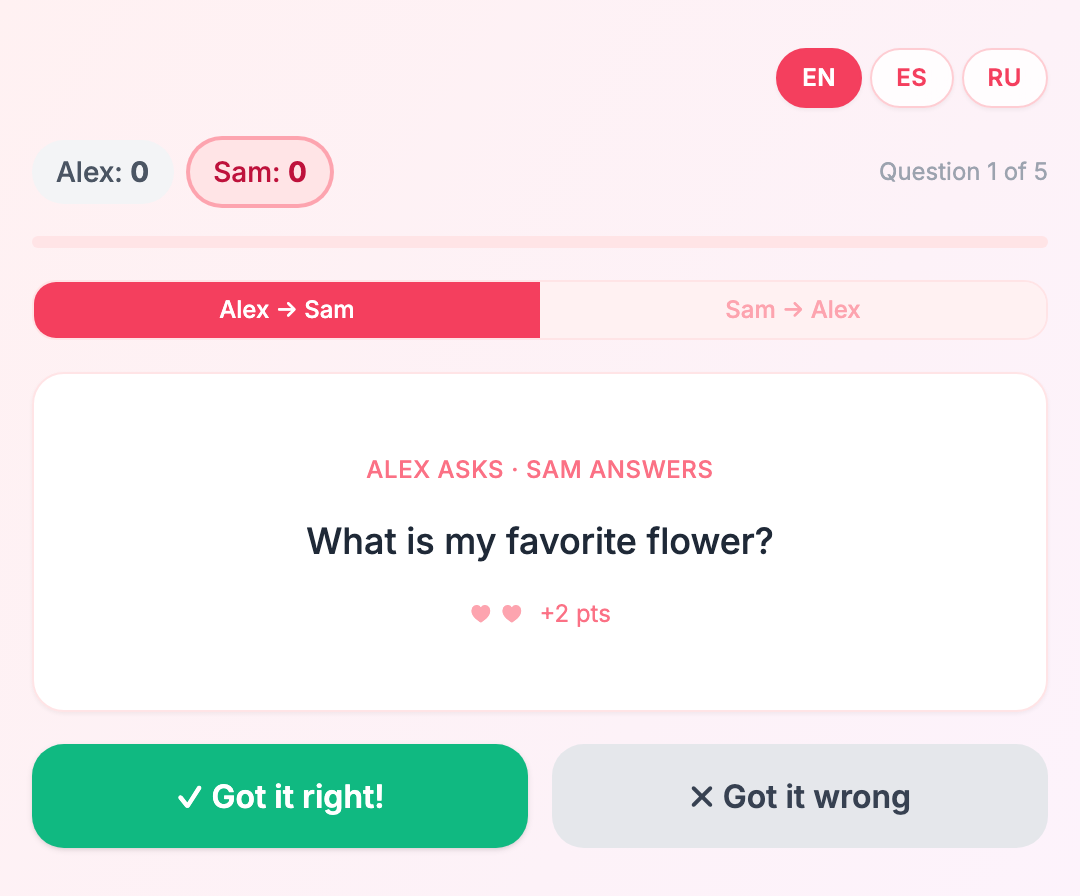
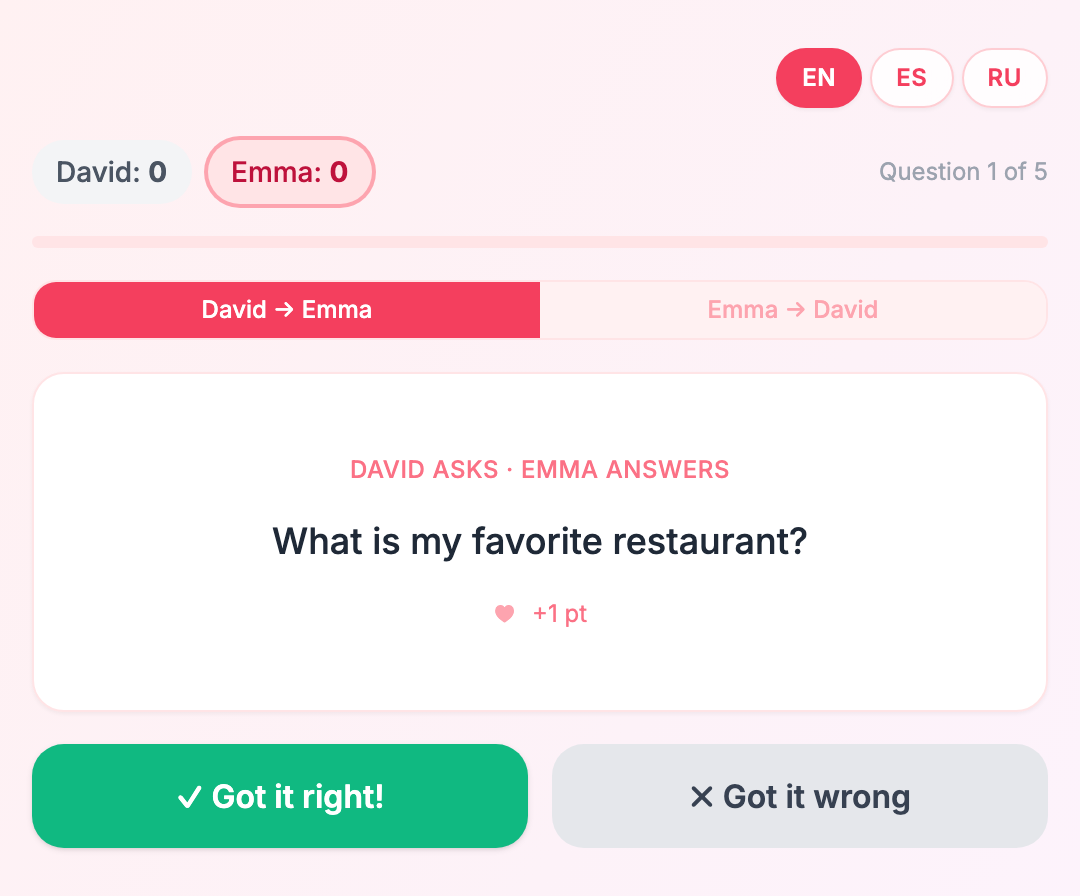
Use clearly-gendered example names (David & Emma) in README and screenshots (#9)

diff --git a/README.md b/README.md
@@ -42,7 +42,7 @@ The result is a product that's fun on the surface and quietly doing something us
 
 - **🎯 Faithful to the method** — 62 real Love Map questions, two-round turn-taking, and Gottman-style weighted scoring (the answerer earns the question's points, the asker earns 1 for a correct guess).
 - **🌍 Trilingual** — full EN / ES / RU support, switchable on the fly. No reload.
-- **👤 Personalized** — enter both names; every prompt reads *"Alex asks · Sam answers"*.
+- **👤 Personalized** — enter both names; every prompt reads *"David asks · Emma answers"*.
 - **⏱️ Pick your depth** — 5 (quick), 10 (date night), 20 (full game), or 30 (deep dive) questions.
 - **↩️ Undo-safe** — a back button rewinds the last answer *and* its score.
 - **🎉 Delightful finish** — animated score bars, a winner (or a tie), and a confetti burst.
@@ -52,8 +52,8 @@ The result is a product that's fun on the surface and quietly doing something us
 
 Each question is played **twice** — once in each direction.
 
-1. **Alex → Sam**: Alex reads the question, Sam answers out loud, Alex marks it right or wrong.
-2. If **right** → Sam gets the question's difficulty points (1–5 ♥), Alex gets **+1** for asking a good question.
+1. **David → Emma**: David reads the question, Emma answers out loud, David marks it right or wrong.
+2. If **right** → Emma gets the question's difficulty points (1–5 ♥), David gets **+1** for asking a good question.
 3. If **wrong** → nobody scores, and the app nudges you to *talk it through*.
 4. Then you **switch roles** and repeat.
 